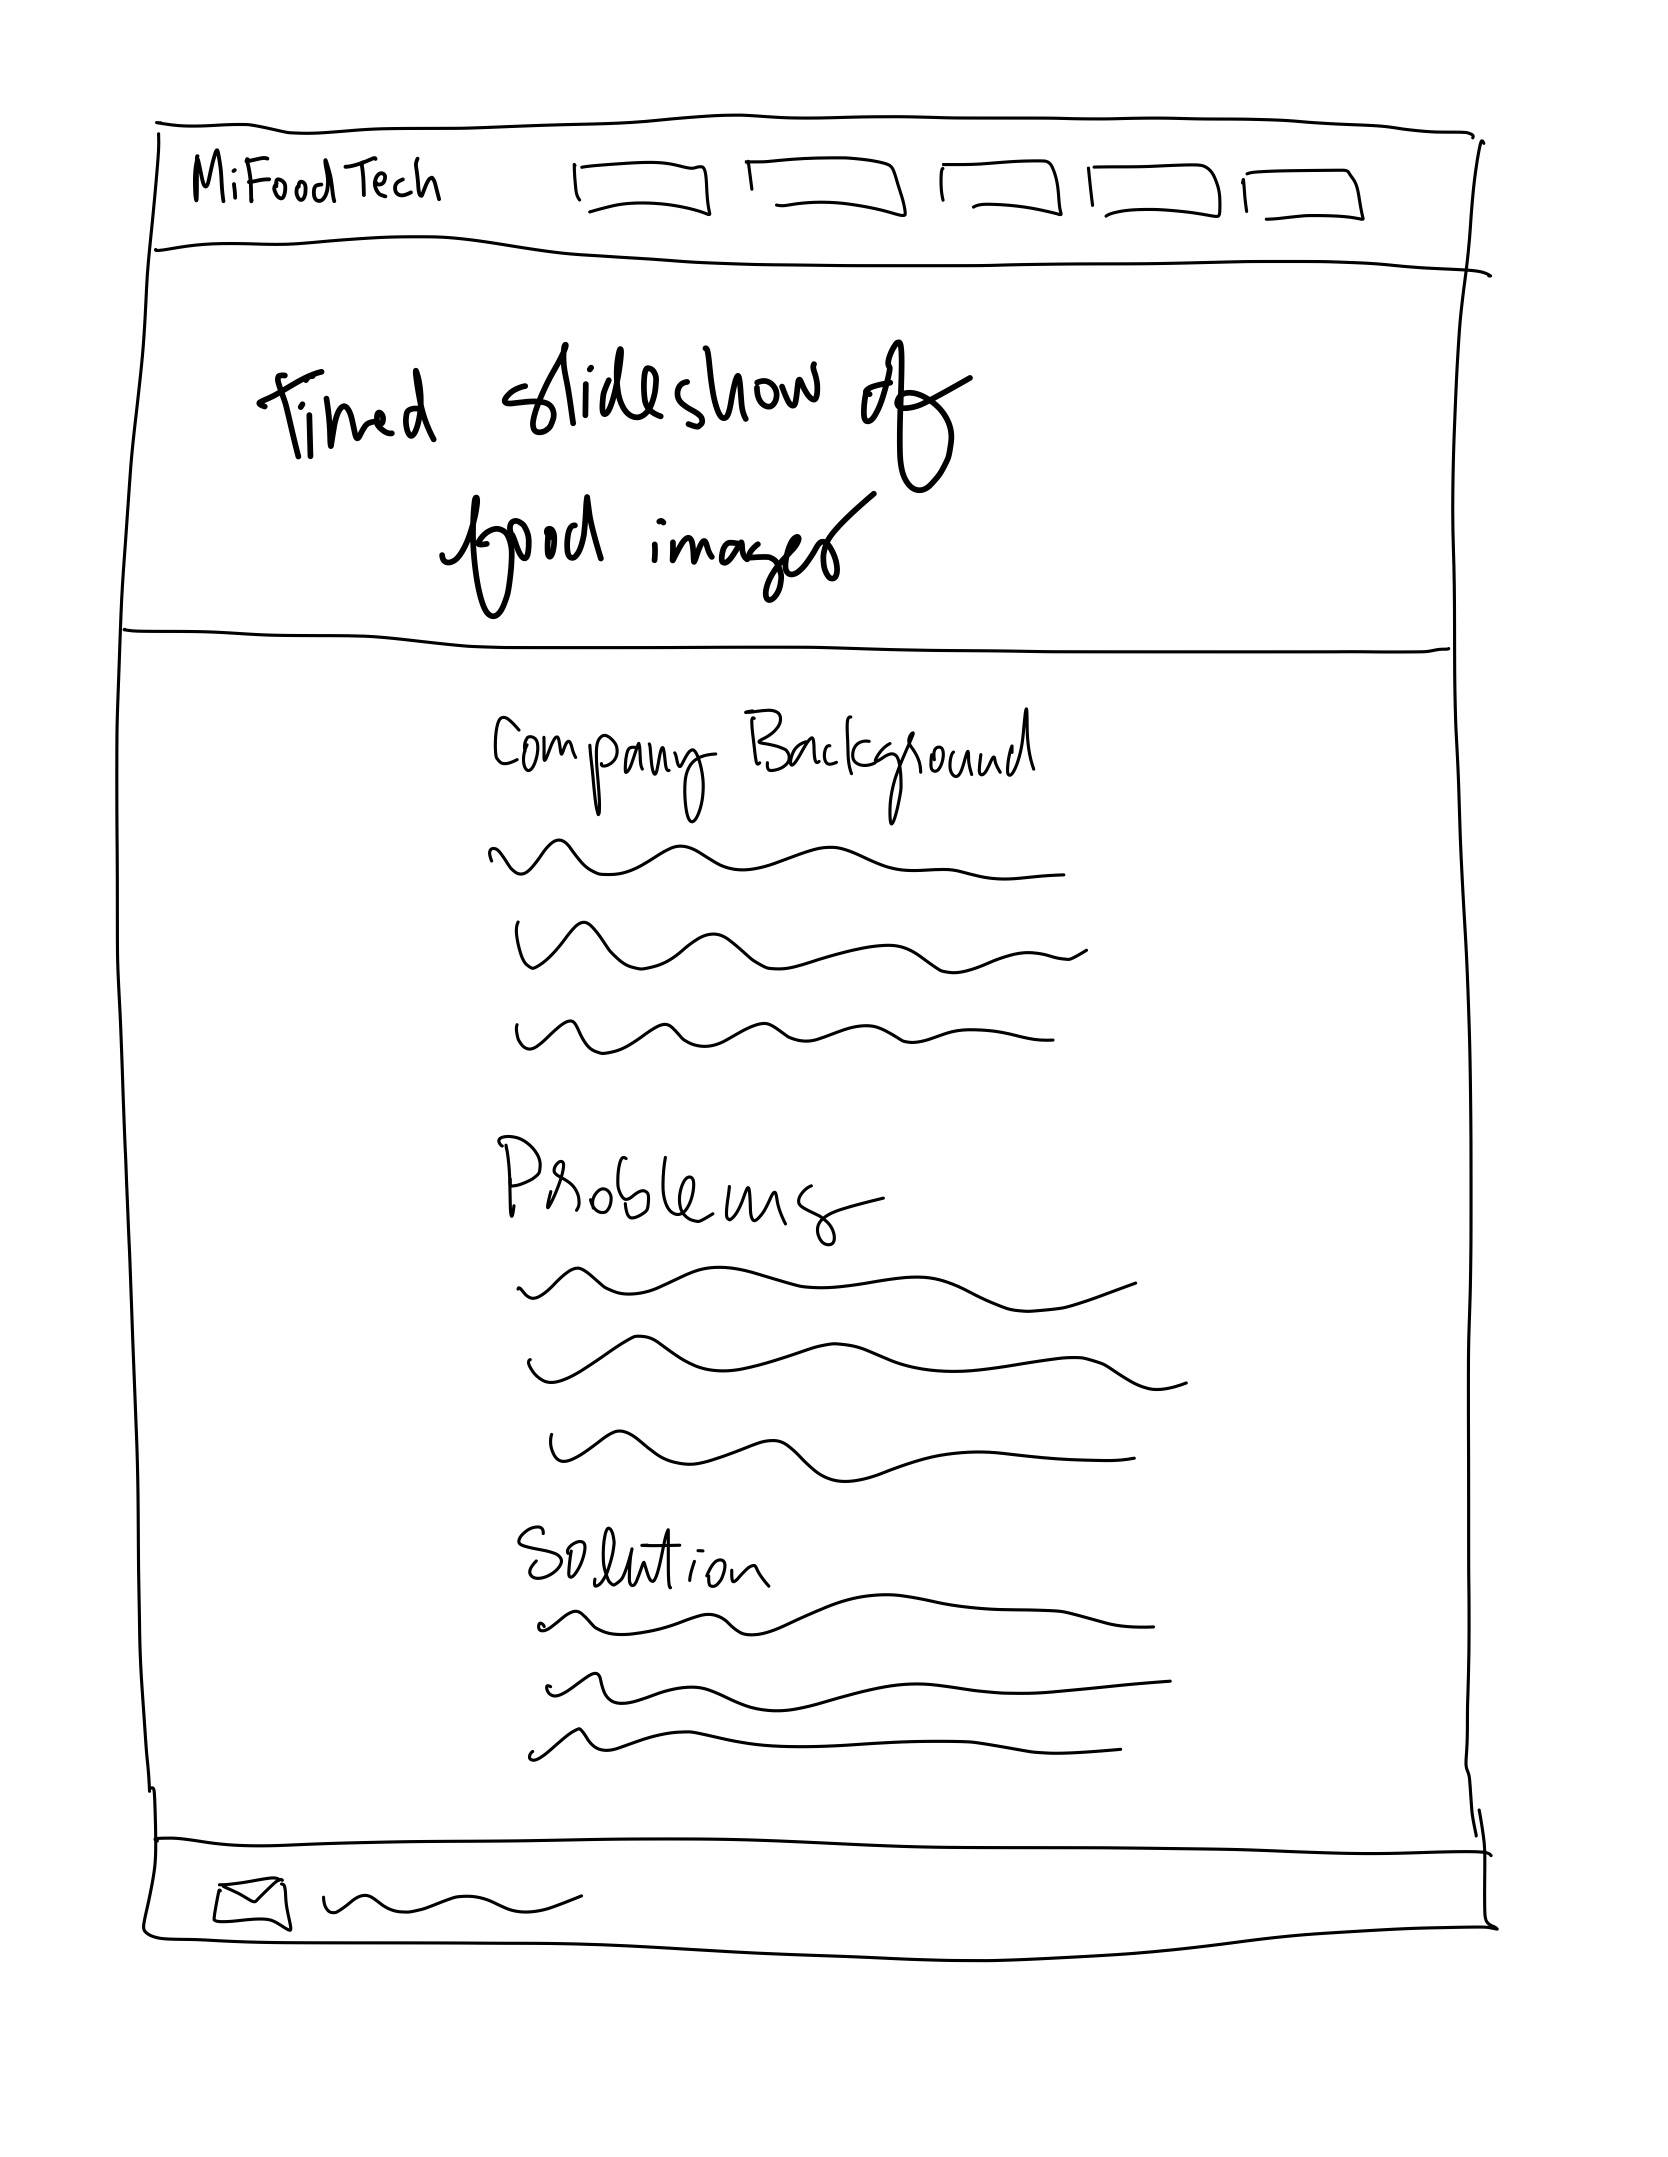
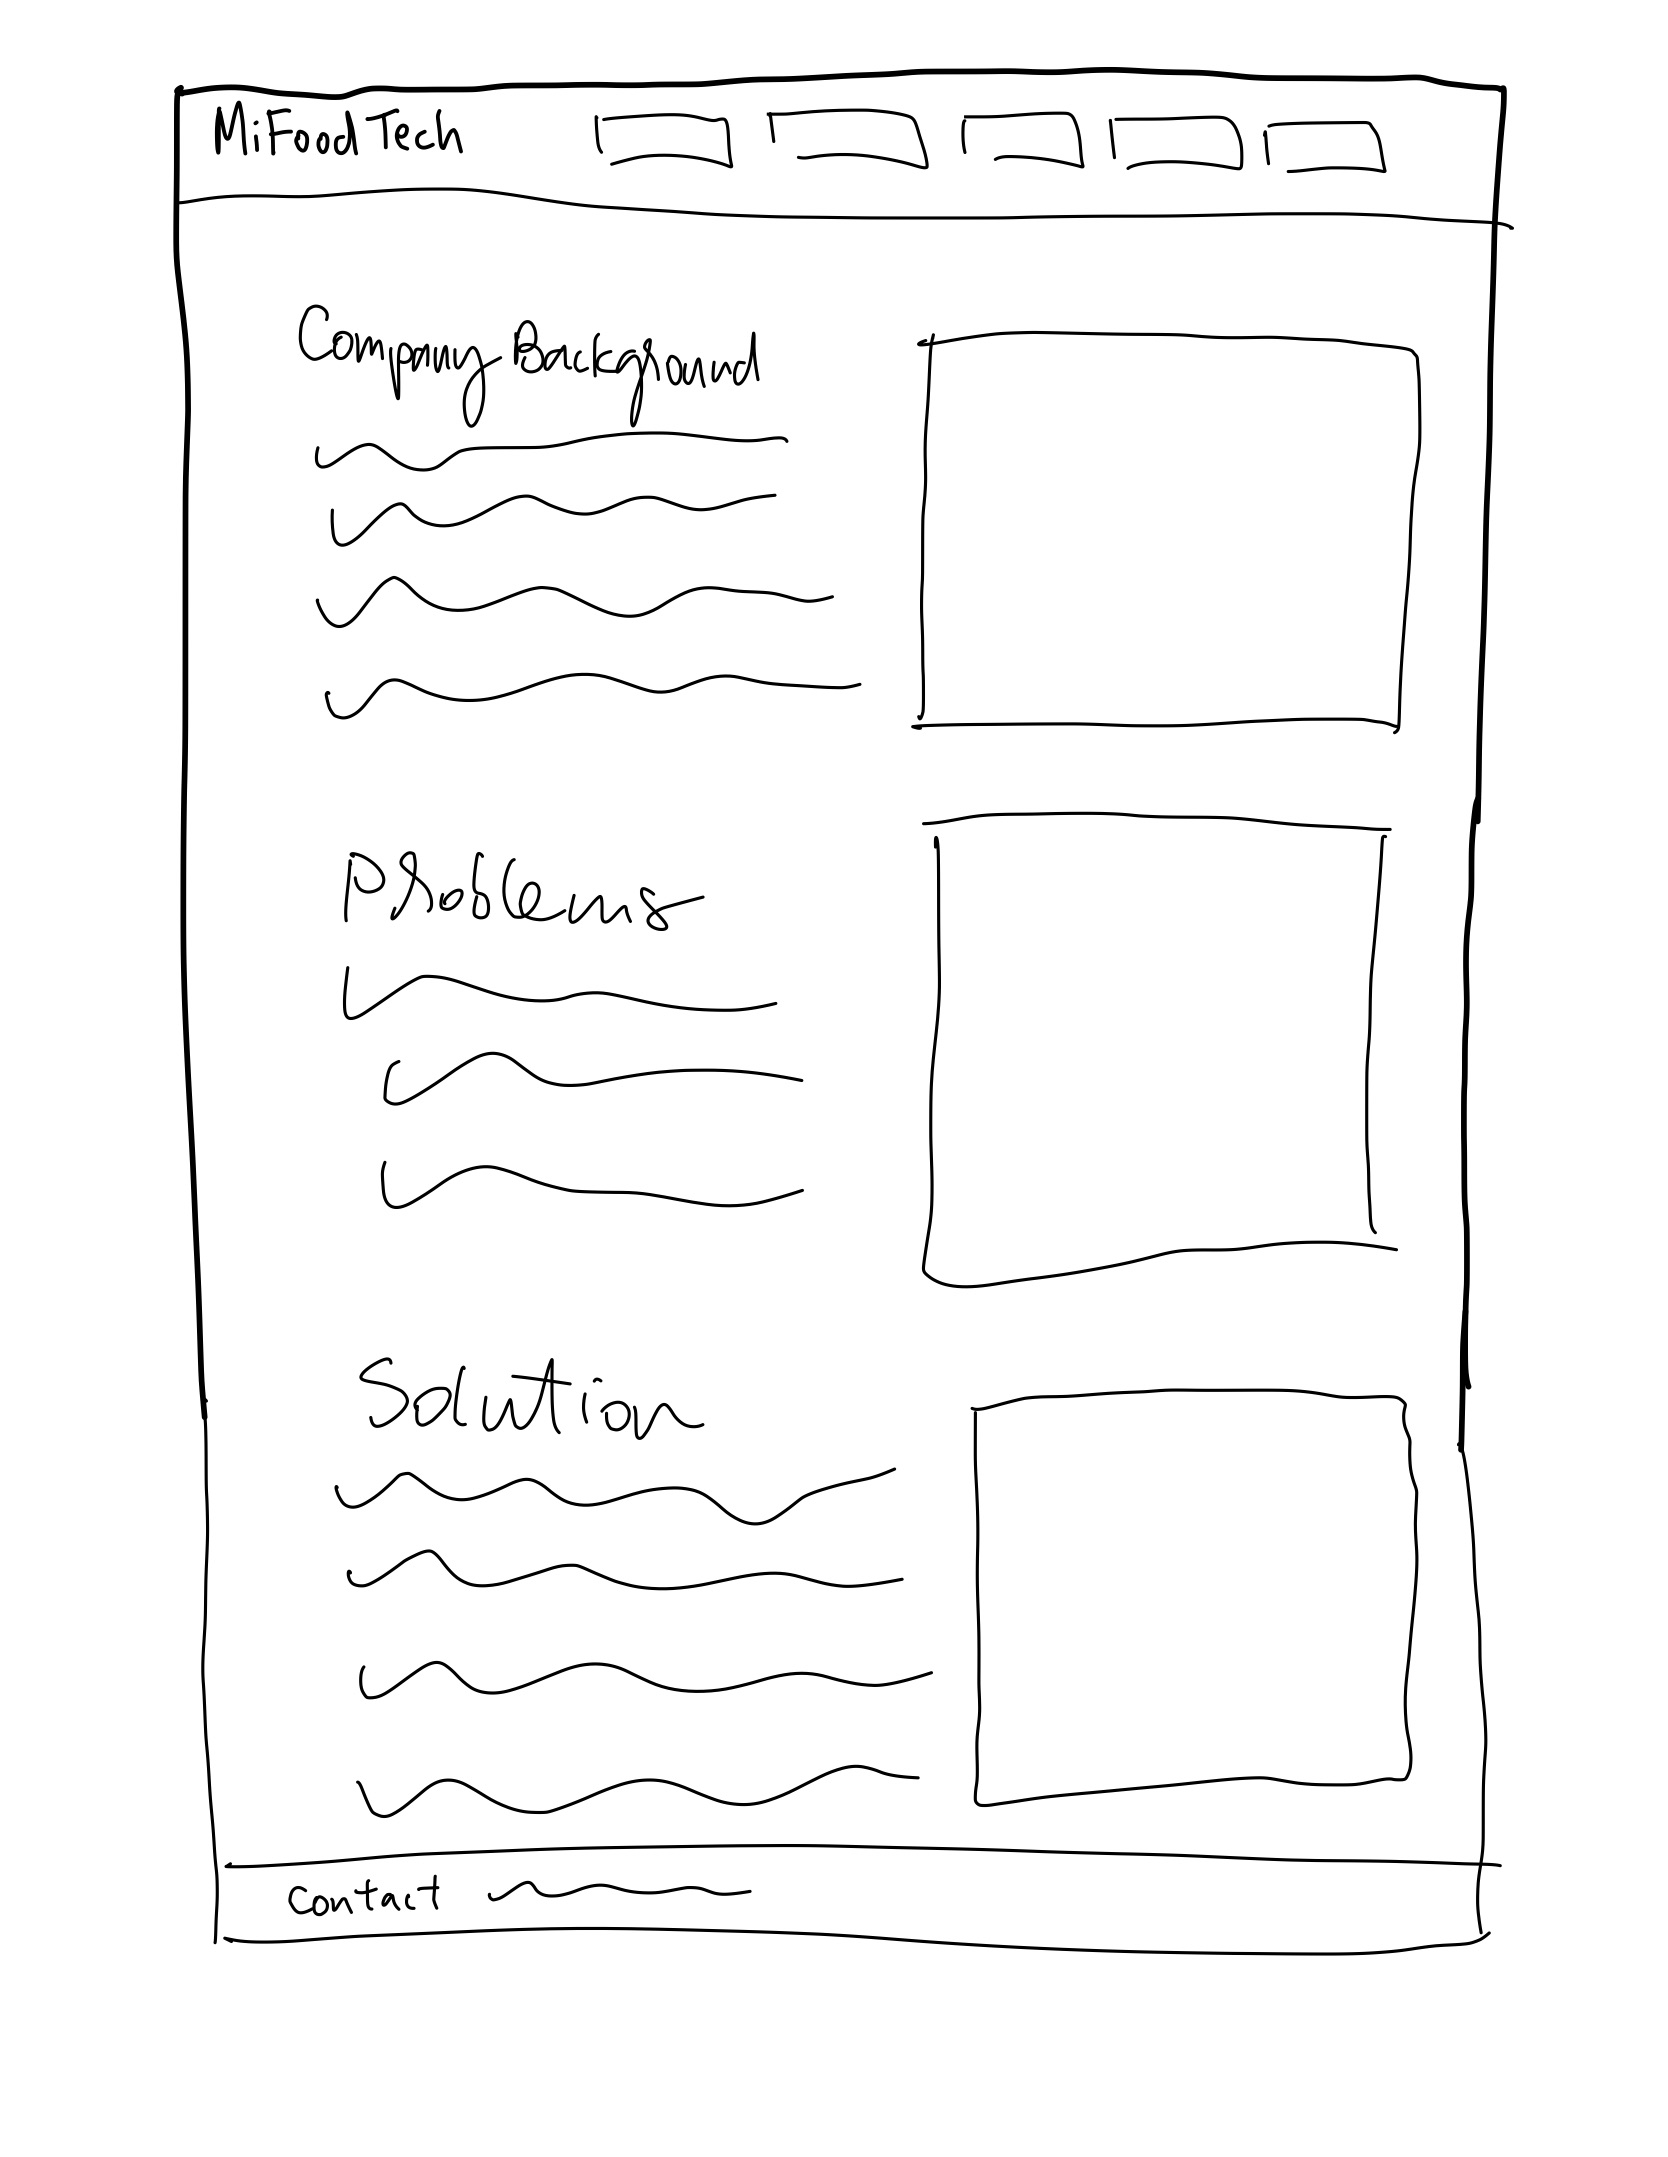
added sketches + explanation for home page

diff --git a/design/design-journey.md b/design/design-journey.md
@@ -678,14 +678,14 @@ Theme 3: Homey/Rustic
 - Serif or Monospace Font (rustic)
 - No circular images (They look too modern and would leave too much white space)
 
-We chose Theme 1, mainly because its features most resembled the examples that we were provided with from our client. As such, Theme 1 rests closest with the direction to which our client wants us to design our website, with respect to its theme. Furthermore, the features from Theme 1 best fit the idea of a startup company, as compared to those from Theme 2 and 3. 
+We chose Theme 1, mainly because its features most resembled the examples that we were provided with from our client. As such, Theme 1 rests closest with the direction to which our client wants us to design our website, with respect to its theme. Furthermore, the features from Theme 1 best fit the idea of a startup company, as compared to those from Theme 2 and 3.
 
 ### Interactivity Ideas (Milestone 2)
 > Brainstorm several ideas for your site's interactivity.
 > Provide a very brief summary how each idea improves the usability of the site for the site's audience.
 
 - Hamburger menu for mobile site (all pages)
-    - ease of use when tapping with fingers because menue expands
+    - ease of use when tapping with fingers because menu expands
 - Hovering/Clicking on sections of graphs/images provide explanation of what that section is (market outlook page)
     - less scrolling when trying to figure out what certain areas mean
 - Carousel for robot (why us page)
@@ -712,16 +712,22 @@ We chose Theme 1, mainly because its features most resembled the examples that w
 #### Home Page (Michelle)
 
 ![First Iteration of Desktop Home Page](/design/homeDesk1.jpg)
+Sketch 1: This sketch makes use of a carousel to display the images of Chinese food that MiFoodTech aims to produce. This gives the audience of investors a sense of the end goal and can increase the appeal of the company by bringing the end product into the forefront of the page. I tried to break up the company background, problems, and solution paragraphs of content with images to the right of the text, leveraging the way in which our audience reads from left to right by keeping the content on the left side.
 
 ![Second Iteration of Desktop Home Page](/design/homeDesk2.jpg)
+Sketch 2: I had the company background be the first content the audience would read about on the page with images of Chinese food on the right. I attempted to make use of white space by centering the problems content and solution content. The image next to the solution content would be an image of the robot technology of MiFoodTech and provide the audience an immediate visual of the product after reading about it.
 
 ![Third Iteration of Desktop Home Page](/design/homeDesk3.jpg)
+Sketch 3: This sketch includes a full-width image of Chinese food and makes use of white space for the company background, problems, and solution sections by having the content be centered on the page without taking up the whole width of the page. I also added a contact information footer at the bottom of the page.
 
 ![Fourth Iteration of Desktop Home Page](/design/homeDesk4.jpg)
+Sketch 4: In this sketch I explored removing the full-width image and just having the content be formatted with the image to the right and the text on the left. This looked too column-like and was difficult to think of ways to add interactivity but leverages common design patterns in the placement of the content.
 
 ![Fifth Iteration of Desktop Home Page](/design/homeDesk5.jpg)
+Sketch 5: In this iteration I incorporated a full-width timed slideshow of food images right under the navigation bar to capture the attention of potential investors and give them a sense of the vision of MiFoodTech's solution. I organized the company background and solution such that the text content is on the left, and the image on the right to leverage the left-to-right reading of our audience. I included a short quote on the left side of the problems content to highlight the key issue that MiFoodTech solves. There is also a footer with contact information on the bottom of the page so that potential investors can reach out to Mi with questions or express their interest in investing.
 
-![Sixth Iteration of Desktop Home Page](/design/homeDesk6.jpg)
+![First Iteration of Mobile Home Page](/design/homeMobile1.jpg)
+Mobile sketch: The navigation bar is replaced with a hamburger menu that expands when tapped on with the navigation bar; this is a common design pattern used on mobile devices since it is easier to tap on full-width buttons on smaller devices. The content is the same as the fifth iteration of the desktop page, but is instead oriented such that the content is stacked in one column. This aligns with existing design patterns due to the limited screen width of mobile devices.
 
 #### Market/Industry Outlook Page (Claire)
 ![First Iteration of Desktop Market Page](/design/marketDesk1.jpg)
